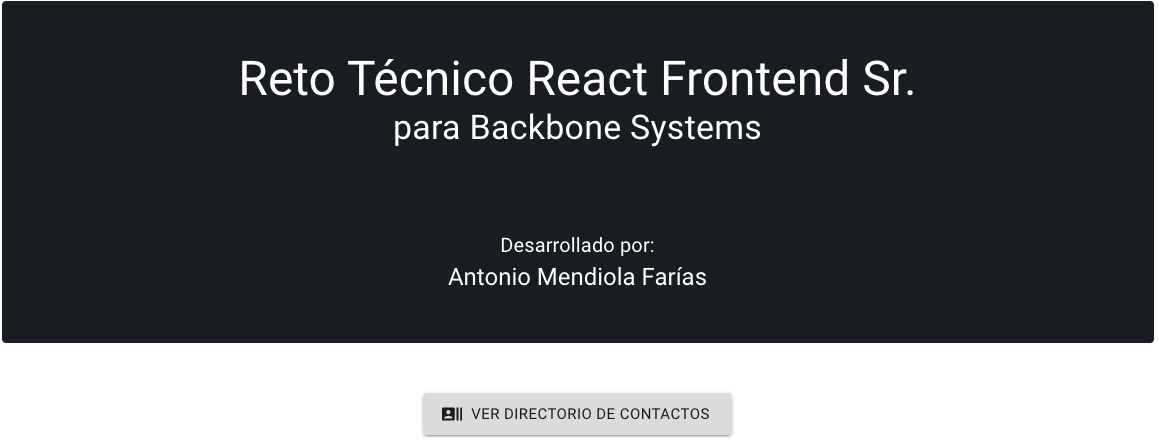
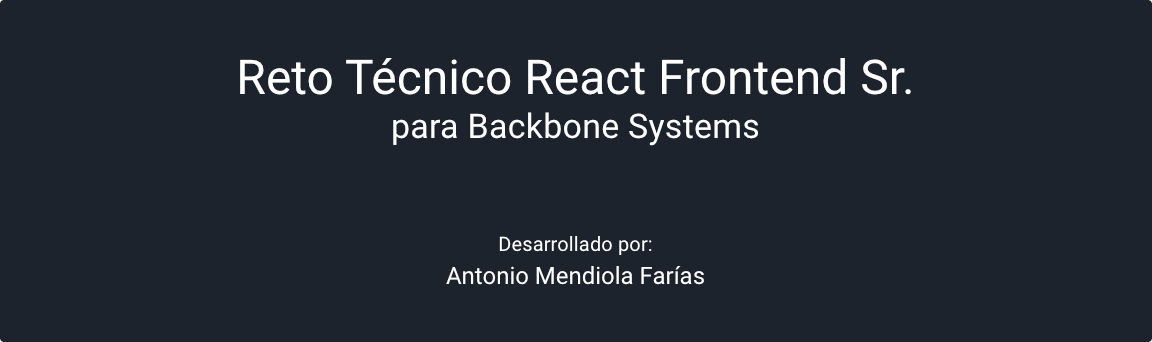
Fix images in README

diff --git a/README.md b/README.md
@@ -1,11 +1,10 @@
-## BackboneChallenge
+## Backbone Challenge
 
 <p align="center">
-    <img src="/assets/hero.png" width="350"/>
-    <img src="/assets/addressbook.png" width="350"/>
+    <img src="/assets/addressbook.png" width="800"/>
 </p>
 
-## Description del proyecto
+## Descripción del proyecto
 - La aplicación despliega un directorio de contactos que obtiene de un API provista previamente.
 - Permite consultar, editar, borrar y crear nuevos contactos.
 - Permite filtrar y paginar los resultados
@@ -23,5 +22,8 @@
 ## Url del proyecto
 - Desplegado en vercel:  https://backbone-challenge-teal.vercel.app/
 
+<p align="center">
+    <img src="/assets/addressbook.png" width="800"/>
+</p>
 
 Por: Antonio Mendiola Farías - 2023
